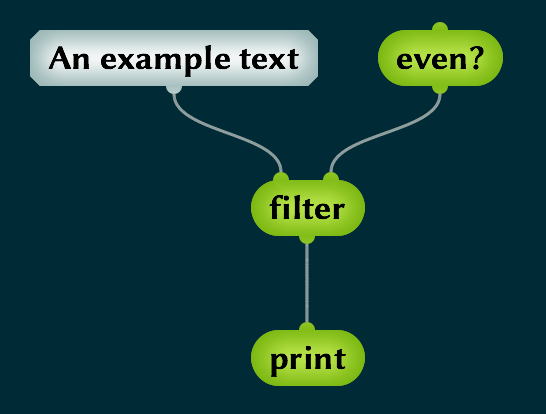
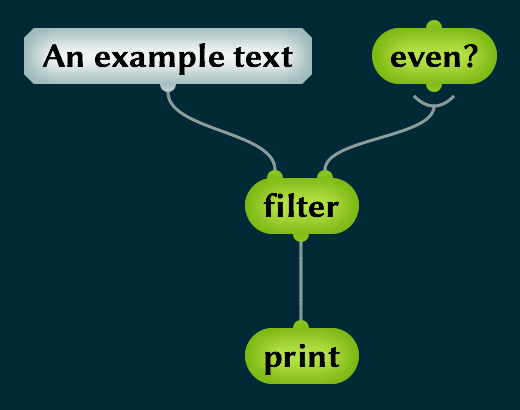
Updated download link and screenshots for 2016-11-25

diff --git a/fr/index.html b/fr/index.html
@@ -29,8 +29,8 @@
 <hr>
 <p>Téléchargez la version de Skov adaptée à votre plateforme :</p>
 <div class="centred">
-<p><a class="download-link" href="https://github.com/nicolas-p/skov/releases/download/2016-04-15/skov-macosx-64bit-2016-04-15.dmg">Download Skov pour Mac | 2016-04-15</a></p>
-<p><a class="download-link" href="https://github.com/nicolas-p/skov/releases/download/2016-04-15/skov-windows-64bit-2016-04-15.zip">Download Skov pour Windows | 2016-04-15</a></p>
+<p><a class="download-link" href="https://github.com/nicolas-p/skov/releases/download/2016-11-25/skov-macos-2016-11-25.dmg">Télécharger Skov pour Mac | 2016-11-25</a></p>
+<p><a class="download-link" href="https://github.com/nicolas-p/skov/releases/download/2016-04-15/skov-windows-64bit-2016-04-15.zip">Télécharger Skov pour Windows | 2016-04-15</a></p>
 </div>
 <p>Le numéro de version est juste la date de publication, comme ça c'est facile de savoir de quand date la version que vous utilisez.</p>
 <p>Il n'y a pas de processus d'installation. Il suffit d'extraire le dossier Skov depuis l'archive <em>zip</em> ou <em>dmg</em> et lancer le programme.</p>
@@ -74,31 +74,31 @@ Vous venez de créer un programme qui affiche "Hello world!" à l'écran.
 <hr>
 <p>L'exemple suivant va introduire un concept extrêmement important.</p>
 <p>Disons que nous avons du texte et que nous ne voulons garder que les lettres qui sont représentées par des nombres pairs (chaque lettre est en fait représentée par un nombre en interne). On fait ça comme ça :</p>
-<img class="bloc" src="../images/screenshot-filter-text.png" height="207">
+<img class="bloc" src="../images/screenshot-filter-text.png" height="205">
 <p>Ce code a l'air incomplet à première vue : l'entrée de <word>even?</word> n'est pas connectée. Mais le code est en fait correct car <word>filter</word> fonctionne d'une façon un peu spéciale. La première entrée de <word>filter</word> est une séquence (une séquence de caractères dans ce cas) mais la deuxième entrée est un mot. <word>filter</word> prend une séquence et un mot et utilise ce mot pour filter cette séquence.</p>
 <p>Vous pouvez imaginer que l'entrée non connectée de <word>even?</word> est successivement connectée à chaque lettre du texte.</p>
 
 <hr>
 <p>Nous voulons maintenant retirer chaque lettre qui est après "m" dans l'alphabet. Puisque chaque lettre est représentée par un nombre, nous pouvons faire (si nous savons que "m" a le numéro 109) :</p>
-<img class="bloc" src="../images/screenshot-reject-text.png" height="281">
+<img class="bloc" src="../images/screenshot-reject-text.png" height="279">
 <p><word>reject</word> fonctionne comme <word>filter</word> sauf qu'il utilise la condition qu'on lui donne pour retirer certains éléments de la séquence au lieu de les garder. Vous pouvez voir ici que la condition ne doit pas nécessairement être un seul mot (comme <word>even?</word> dans l'exemple précédent) mais peut être du code plus complexe (dans cet exemple, "plus que 109").</p>
 
 <hr>
 <p>On peut maintenant utiliser ce principe pour traiter des fichiers texte.</p>
 <p>On veut inverser l'ordre des lignes de texte dans un fichier. La dernière ligne deviendra la première et la première deviendra la dernière. C'est facile:</p>
-<img class="bloc" src="../images/screenshot-reverse-file.png" width="395" height="129">
+<img class="bloc" src="../images/screenshot-reverse-file.png" width="395" height="130">
 <p>(Évidemment, utilisez le chemin d'un vrai fichier sur votre ordinateur.)</p>
 <p><word>change file lines</word> est un mot qui prend trois entrées: le chemin vers un fichier, l'encodage des caractères (UTF-8 dans ce cas; c'est le standard qui dit quel nombre représente chaque lettre), et un mot (ou du code plus complexe) qui va prendre la séquence de lignes de texte et lui faire quelque chose.</p>
 <p>Si votre éditeur de texte est assez intelligend pour recharger les fichiers automatiquement, vous verrez que chaque fois que vous cliquez sur le bouton de résultat, le fichier est inversé.</p>
 
 <hr>
 <p>On peut aussi facilement retirer toutes les lignes vides d'un fichier</p>
-<img class="bloc" src="../images/screenshot-harvest-file.png" width="395" height="125">
+<img class="bloc" src="../images/screenshot-harvest-file.png" width="395" height="132">
 <p><word>harvest</word> est un mot qui retire toutes les sous-séquences vides dans une séquence.</p>
 
 <hr>
 <p>Comment fait-on pour enlever toutes les lignes d'un fichier qui contiennent "hello" ?</p>
-<img class="bloc" src="../images/screenshot-hello-file.png" width="414" height="292">
+<img class="bloc" src="../images/screenshot-hello-file.png" width="414" height="276">
 <p>Celui-là est pas mal ! On a vu que <word>change file lines</word> est un de ces mots spéciaux qui peuvent prendre un bout de code en entrée, et <word>reject</word> en est un aussi. Et maintenant ils sont utilisés ensemble !</p>
 
 <hr>

diff --git a/en/index.html b/en/index.html
@@ -29,7 +29,7 @@
 <hr>
 <p>Download the version of Skov adapted for your platform:</p>
 <div class="centred">
-<p><a class="download-link" href="https://github.com/nicolas-p/skov/releases/download/2016-04-15/skov-macosx-64bit-2016-04-15.dmg">Download Skov for Mac | 2016-04-15</a></p>
+<p><a class="download-link" href="https://github.com/nicolas-p/skov/releases/download/2016-11-25/skov-macos-2016-11-25.dmg">Download Skov for Mac | 2016-11-25</a></p>
 <p><a class="download-link" href="https://github.com/nicolas-p/skov/releases/download/2016-04-15/skov-windows-64bit-2016-04-15.zip">Download Skov for Windows | 2016-04-15</a></p>
 </div>
 <p>The version number is just the date it was published, so it is easy to know how old is the version you're using.</p>
@@ -74,31 +74,31 @@ You have just created a program that writes "Hello world!" to the screen.
 <hr>
 <p>The next example is going to introduce an extremely important concept.</p>
 <p>Let's say we have some text and we want to keep only the letters that are represented by an even number (every letter is actually represented by a number behind the scenes). We do it like this:</p>
-<img class="bloc" src="../images/screenshot-filter-text.png" height="207">
+<img class="bloc" src="../images/screenshot-filter-text.png" height="205">
 <p>This code looks incomplete at first sight: the input to <word>even?</word> is not connected. But the code is actually correct because <word>filter</word> works in a special way. The first input to <word>filter</word> is a sequence (a sequence of characters in this case) but the second input is a word. <word>filter</word> takes a sequence and a word and uses this word to filter the sequence.</p>
 <p>You can imagine the unconnected input of <word>even?</word> being connected to each individual letter of the text successively.</p>
 
 <hr>
 <p>Now we want to remove every letter that comes after "m" in the alphabet. Because every letter is represented by a number, we can do (if we know that "m" is number 109):</p>
-<img class="bloc" src="../images/screenshot-reject-text.png" height="281">
+<img class="bloc" src="../images/screenshot-reject-text.png" height="279">
 <p><word>reject</word> works like <word>filter</word> except that it uses the given condition to discard certain elements of the sequence, instead of keeping them. What you can see here is that the condition doesn't have to be a single word (like <word>even?</word> in the previous example) but can be more complex code (in this example, "more than 109").</p>
 
 <hr>
 <p>We can now use this principle to process some text files.</p>
 <p>We want to reverse the order of the lines of text in a file. The last line will become the first and the first will become the last. That's easy:</p>
-<img class="bloc" src="../images/screenshot-reverse-file.png" width="395" height="129">
+<img class="bloc" src="../images/screenshot-reverse-file.png" width="395" height="130">
 <p>(Of course, use the path to a real text file on your computer.)</p>
 <p><word>change file lines</word> is a word that takes three inputs: the path to a text file, the character encoding (UTF-8 in this case; it is the standard that tells you which letter is represented by which number), and a word (or some more complex code) that is going to take the sequence of lines of text and do something to it.</p>
 <p>If your text editor is intelligent enough to reload files automatically, you will see that every time you click the result button, the file is reversed.</p>
 
 <hr>
 <p>We can also easily remove all empty lines in a file</p>
-<img class="bloc" src="../images/screenshot-harvest-file.png" width="395" height="125">
+<img class="bloc" src="../images/screenshot-harvest-file.png" width="395" height="132">
 <p><word>harvest</word> is a word that removes every empty sub-sequence in a sequence.</p>
 
 <hr>
 <p>How do we remove all the lines of a file that contain "hello"?</p>
-<img class="bloc" src="../images/screenshot-hello-file.png" width="414" height="292">
+<img class="bloc" src="../images/screenshot-hello-file.png" width="414" height="276">
 <p>This one is great! We've seen that <word>change file lines</word> is one of these special words that can take a piece of code as an input, and <word>reject</word> is also one of them. And now they're used together.</p>
 
 <hr>
